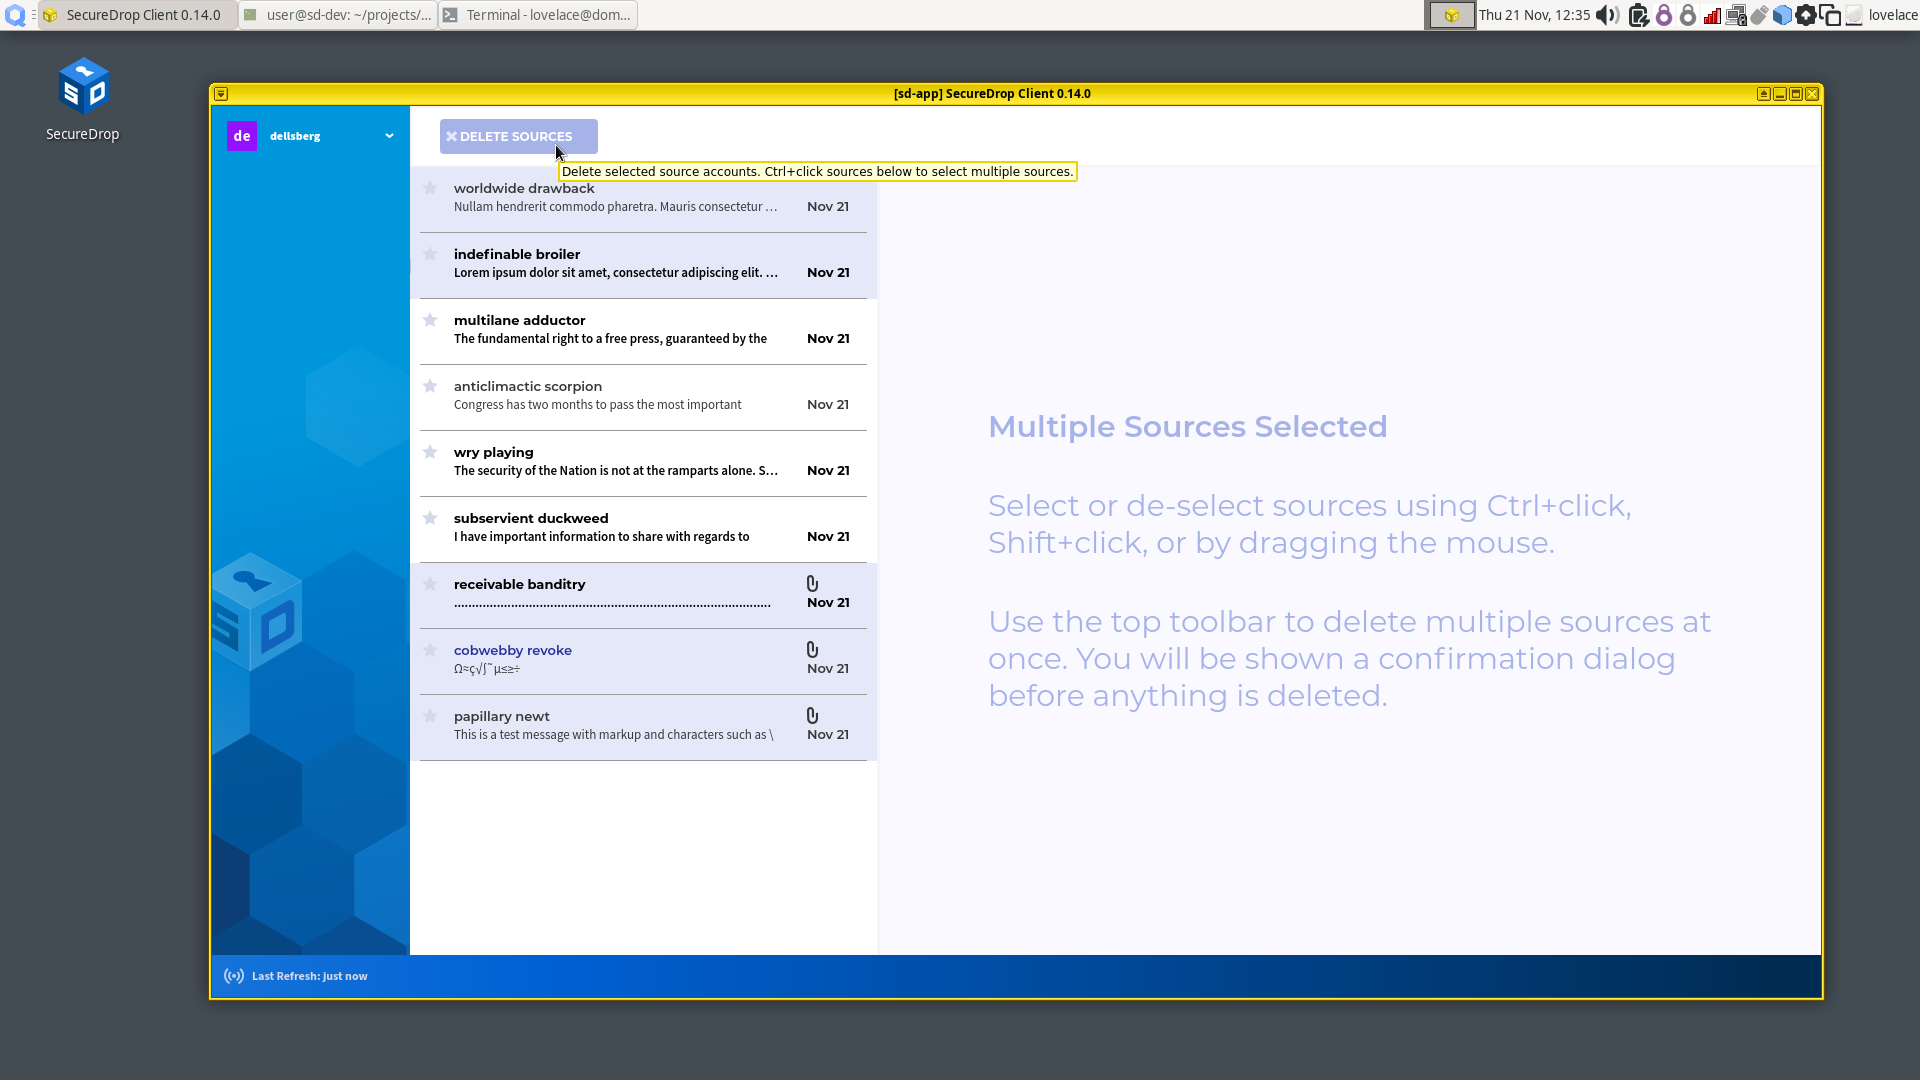
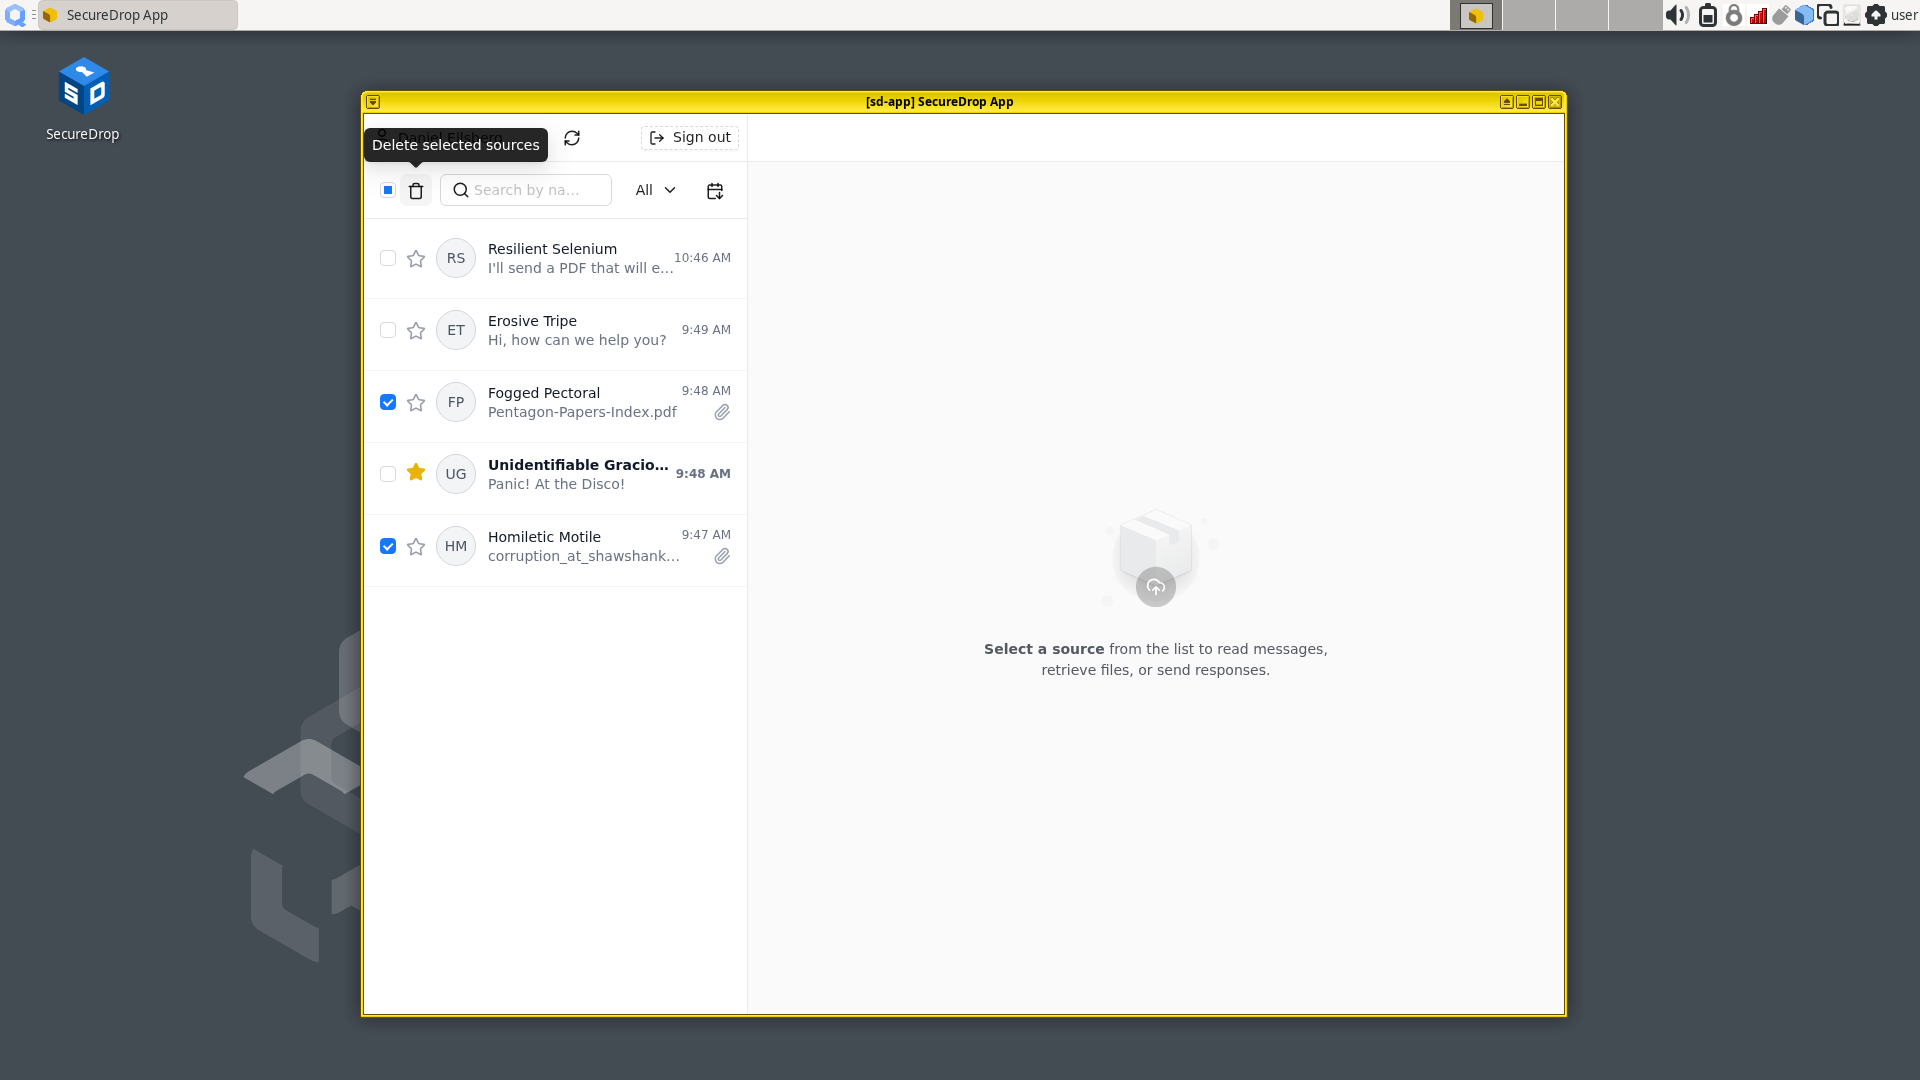
Document the new SecureDrop app

diff --git a/docs/journalist/sources.rst b/docs/journalist/sources.rst
@@ -6,21 +6,21 @@ view submissions, and reply to sources, all on the same computer.
 
 Once logged in, you will see a chat-like user interface:
 
-- The leftmost panel shows your username, if you are logged in, or the
+- The top of the left panel shows your username, if you are logged in, or the
   sign-in button.
+  
+- The action area of the left panel provides the ability to search for sources,
+  toggle the sort order, select multiple sources, and delete sources.
 
-- The middle panel holds the list of sources that have submitted to your
-  instance. Each source is identified to you with a two word pseudonym.
+- The larger portion of the left panel holds the list of sources that have submitted to your
+  instance. Each source is identified to you with a two word pseudonym. You will also
+  see the date of the last source activity, an icon to indicate if a source contains attachments,
+  and a button to mark a source as starred.
 
-- The rightmost panel holds the conversation view. All parts of the conversation
+- The right panel holds the conversation view. All parts of the conversation
   with a specific source (messages, files, and journalist replies) will be
   displayed here.
 
-- The top panel holds a toolbar that allows you to apply actions to multiple
-  sources at once. (Currently, "Delete Sources" is the only supported action.)
-
-- The bottom status bar will alert you to any problems (such as lack of network
-  connectivity or issues downloading a file).
 
 Opening a conversation
 ----------------------
@@ -50,7 +50,7 @@ Sending a reply
 ---------------
 
 Compose a reply to the selected source in the text box at the bottom of the
-conversation view. Click the paper airplane icon or press "Ctrl+Enter" to send
+conversation view. Click the **Send** button or press "Ctrl+Enter" to send
 a reply. Any replies you did not send will be discarded when you exit the
 client.
 
@@ -66,20 +66,14 @@ Deleting conversations
 Deleting a single conversation
 ''''''''''''''''''''''''''''''
 
-You can delete a single source conversation by clicking on the three dots at
-the top right-hand side of the application window, beside the timestamp. You should
-see a dropdown menu with two options: **Files and messages** and **Entire source
-account**. In both cases, a confirmation dialog will appear before anything is
-deleted.
+You can delete a single source conversation checking the box beside the Source name in the list, then clicking the delete button (as indicated by a trash icon) in the action area at the top. You will be presented with a pop-up where you will be asked to confirm if you would prefer to **Delete Conversation** or **Delete Account**.
 
-|screenshot_deletion_dropdown|
-
-Click **Files and messages** to delete all files and messages (including journalist
+Click **Delete Conversation** to delete all files and messages (including journalist
 replies) associated with this source, while keeping the source account active.
 The source will continue to appear in the source list, and will be able to
 communicate with you through the Source Interface.
 
-Click **Entire source account** to also remove the source from the source list,
+Click **Delete Account** to also remove the source from the source list,
 and to prevent them from logging into the Source Interface. Their account will
 be completely removed from the system.
 
@@ -87,27 +81,20 @@ be completely removed from the system.
   :width: 100%
 .. |screenshot_send_reply| image:: ../images/screenshot_send_reply.png
   :width: 100%
-.. |screenshot_deletion_dropdown| image:: ../images/screenshot_deletion_dropdown.png
-  :width: 100%
-
 
 Deleting multiple conversations
 '''''''''''''''''''''''''''''''
 
-You can also delete multiple source conversations at once. Hold down the Control
-(Ctrl) key and click on different rows to select (or deselect) sources from the list.
-(You can also Ctrl + drag the mouse, or Shift + select, to select a range of continuous
-sources.) Once you are finished selecting, click the "Delete Sources" toolbar button.
+You can also delete multiple source conversations at once. To do so, either check the
+boxes beside each source you wish to delete, or check the box in the action area to
+select all sources. Once you have the sources that you wish to delete checked, click the
+delete button (trash icon).
 
 .. |screenshot_select_sources|  image:: ../images/screenshot_delete_sources_select.png
   :width: 100%
 
-This action deletes the **entire source account**, meaning files and messages will
-be removed, and that source will no longer be able to log in using their codename.
-
-You will be shown a confirmation dialog before any sources are deleted. If you select
-a very large number of sources, you will also notice a brief time delay, to prevent
-unintentional deletion.
+You will be presented with another confirmation pop-up where you can choose to either
+**Delete Conversations** or **Delete Accounts**.
 
 .. |screenshot_confirm_delete|  image:: ../images/screenshot_delete_sources_dialog.png
   :width: 100%

diff --git a/docs/journalist/starting_client.rst b/docs/journalist/starting_client.rst
@@ -1,7 +1,7 @@
-Starting the SecureDrop Client
+Starting the SecureDrop App
 ==============================
 
-After you log into Qubes, the SecureDrop Client app will start automatically. If
+After you log into Qubes, the SecureDrop App will start automatically. If
 you have previously exited the application, you can double-click on the
 **SecureDrop** desktop shortcut to launch it.
 
@@ -15,7 +15,7 @@ you to automatically download and apply any available security updates:
 
 |screenshot_update_prompt|
 
-For security reasons, you will not be able to launch the SecureDrop Client until
+For security reasons, you will not be able to launch the SecureDrop App until
 updates have been applied. This typically takes between 10 and 30 minutes.
 
 Click "Start updates" if you are ready to start the process. (If you prefer to
@@ -29,7 +29,7 @@ You will see a progress indicator until updates are completed:
 
 At the end of this process, SecureDrop Workstation may prompt you to reboot
 if core system components were updated. Once all steps in the update process have
-been completed, the SecureDrop Client will launch automatically.
+been completed, the SecureDrop App will launch automatically.
 
 Signing in
 ----------

diff --git a/docs/journalist/submissions.rst b/docs/journalist/submissions.rst
@@ -2,7 +2,7 @@ Working with submissions
 ========================
 
 When a source submits files, you will see a Download button in the conversation
-flow, a file size, and light-gray text that says "Encrypted file on server."
+flow, a file size, and light-gray text that says "Encrypted File."
 
 |screenshot_file_before_download|
 
@@ -10,9 +10,13 @@ Downloading
 -----------
 
 To download a file, click the **Download** button. An animated spinner will
-indicate that the file is downloading:
+indicate that the file is downloading, and a progress bar will indicate
+the download completion:
 
 |screenshot_file_downloading|
+
+If necessary, you can pause the download by clicking "Pause," and resume
+the download later with "Resume."
 
 Once the file has been downloaded and decrypted, the filename will be visible,
 as will the action **Export** and **Print**. The displayed file size may increase
